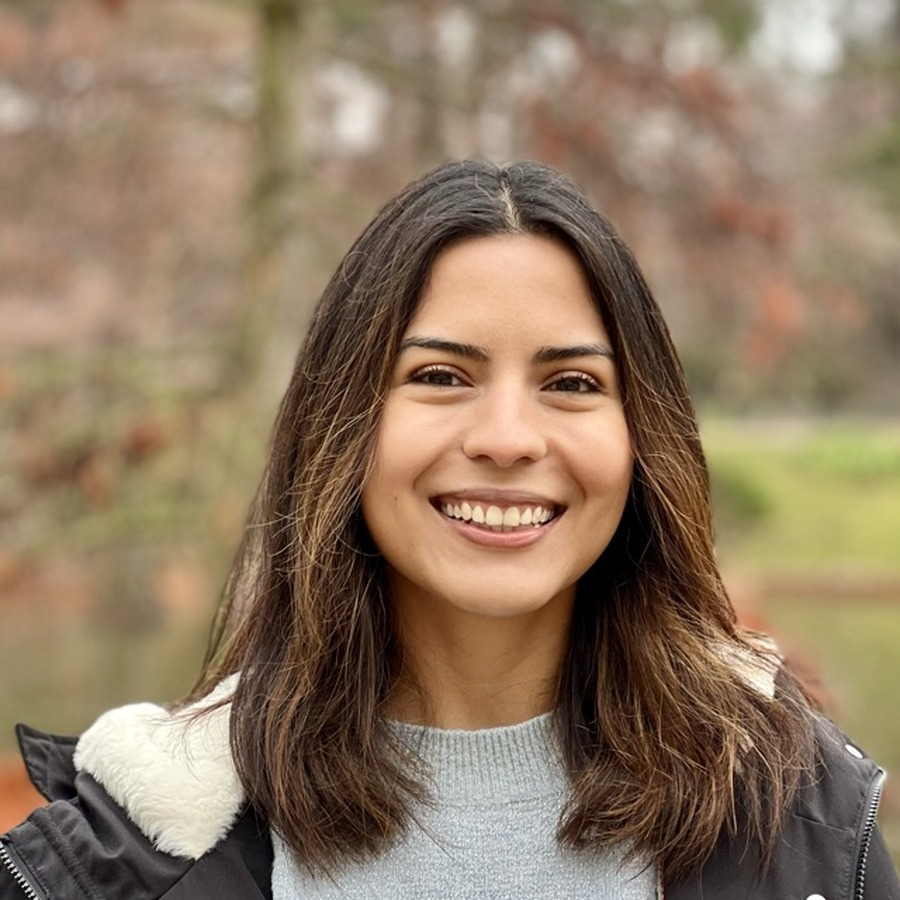
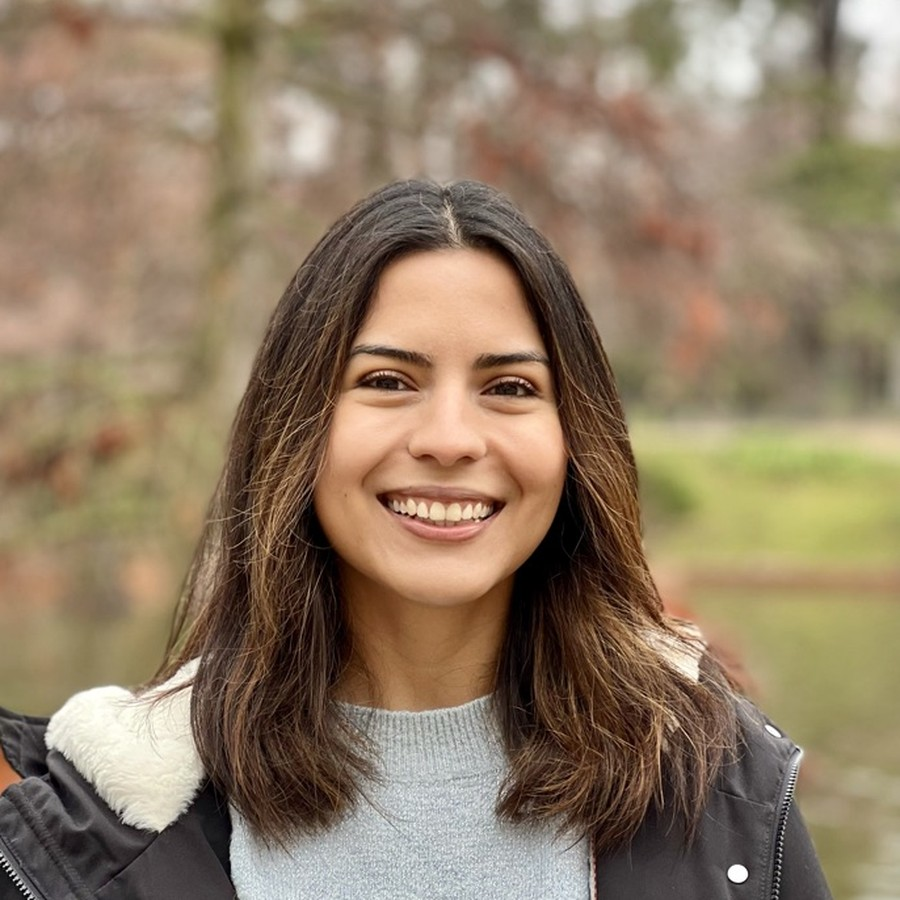
Re-center Arteaga-Garavito photo; use Texas A&M email

diff --git a/index.html b/index.html
@@ -70,7 +70,7 @@
         <div class="author-name">María José Arteaga&#8209;Garavito</div>
         <div class="author-role">Mays Business School<br>Texas A&amp;M University</div>
         <div class="author-links">
-          <a href="mailto:majo_arteaga@hotmail.com">Email</a> &middot;
+          <a href="mailto:maria.arteaga@tamu.edu">Email</a> &middot;
           <a href="https://twitter.com/MajoArteaga">Twitter</a>
         </div>
       </div>
